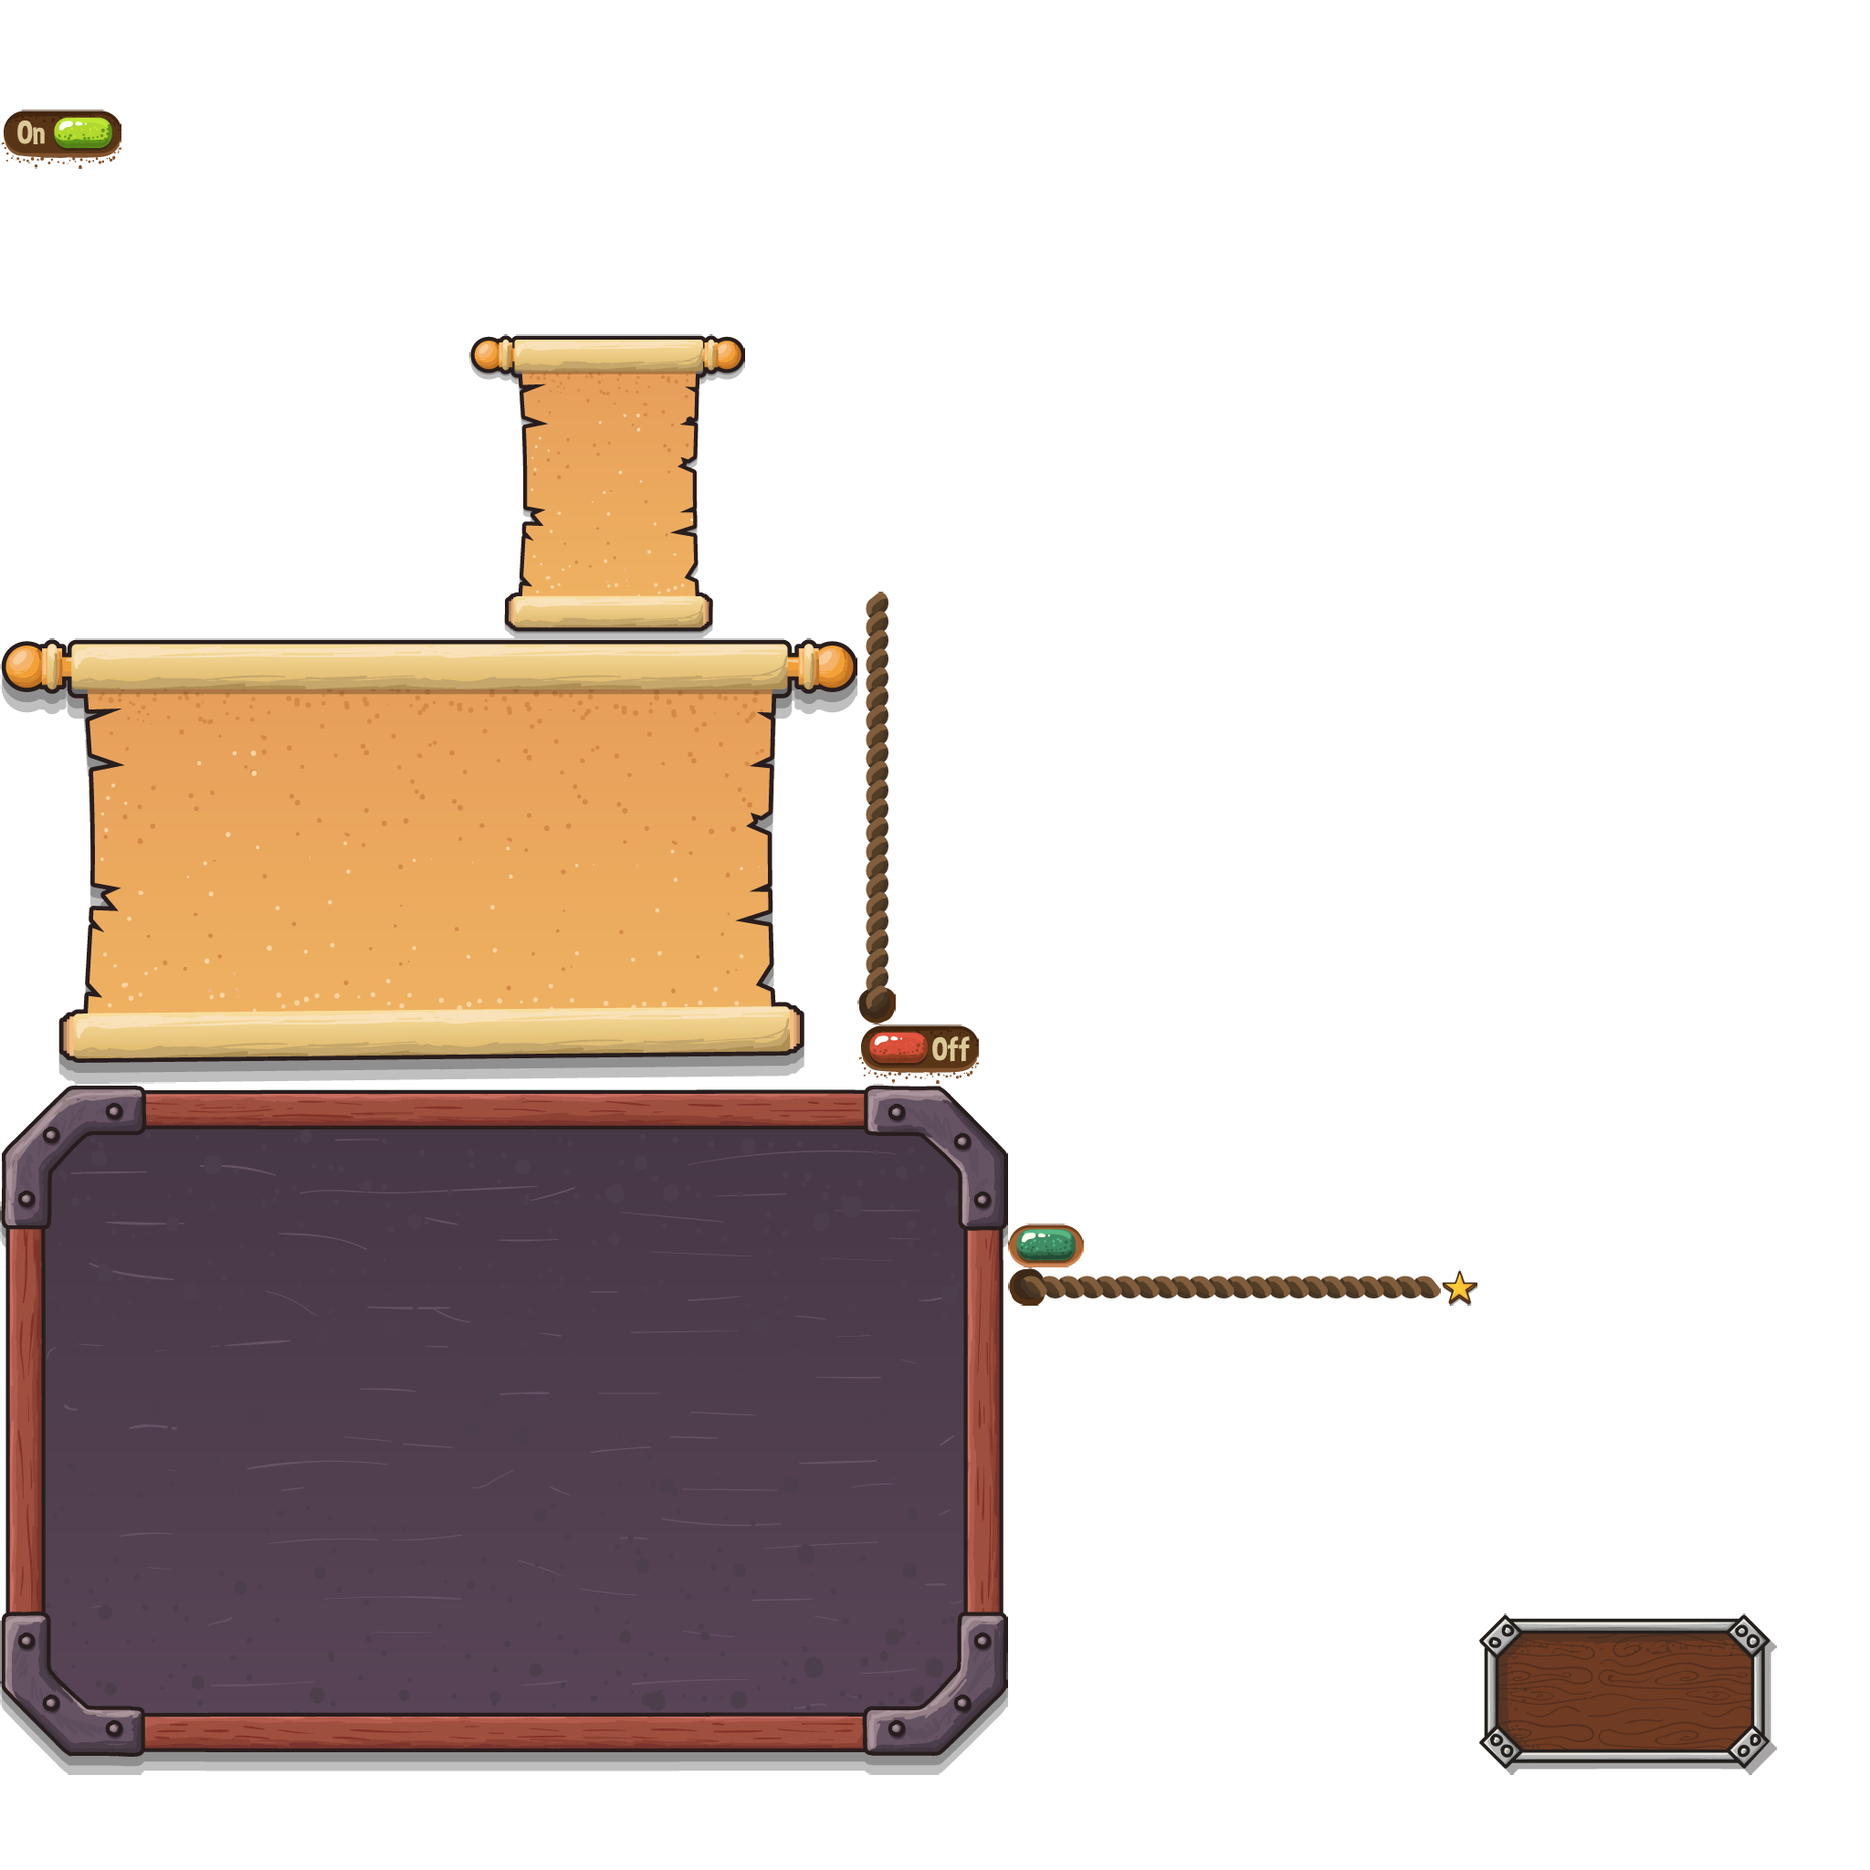
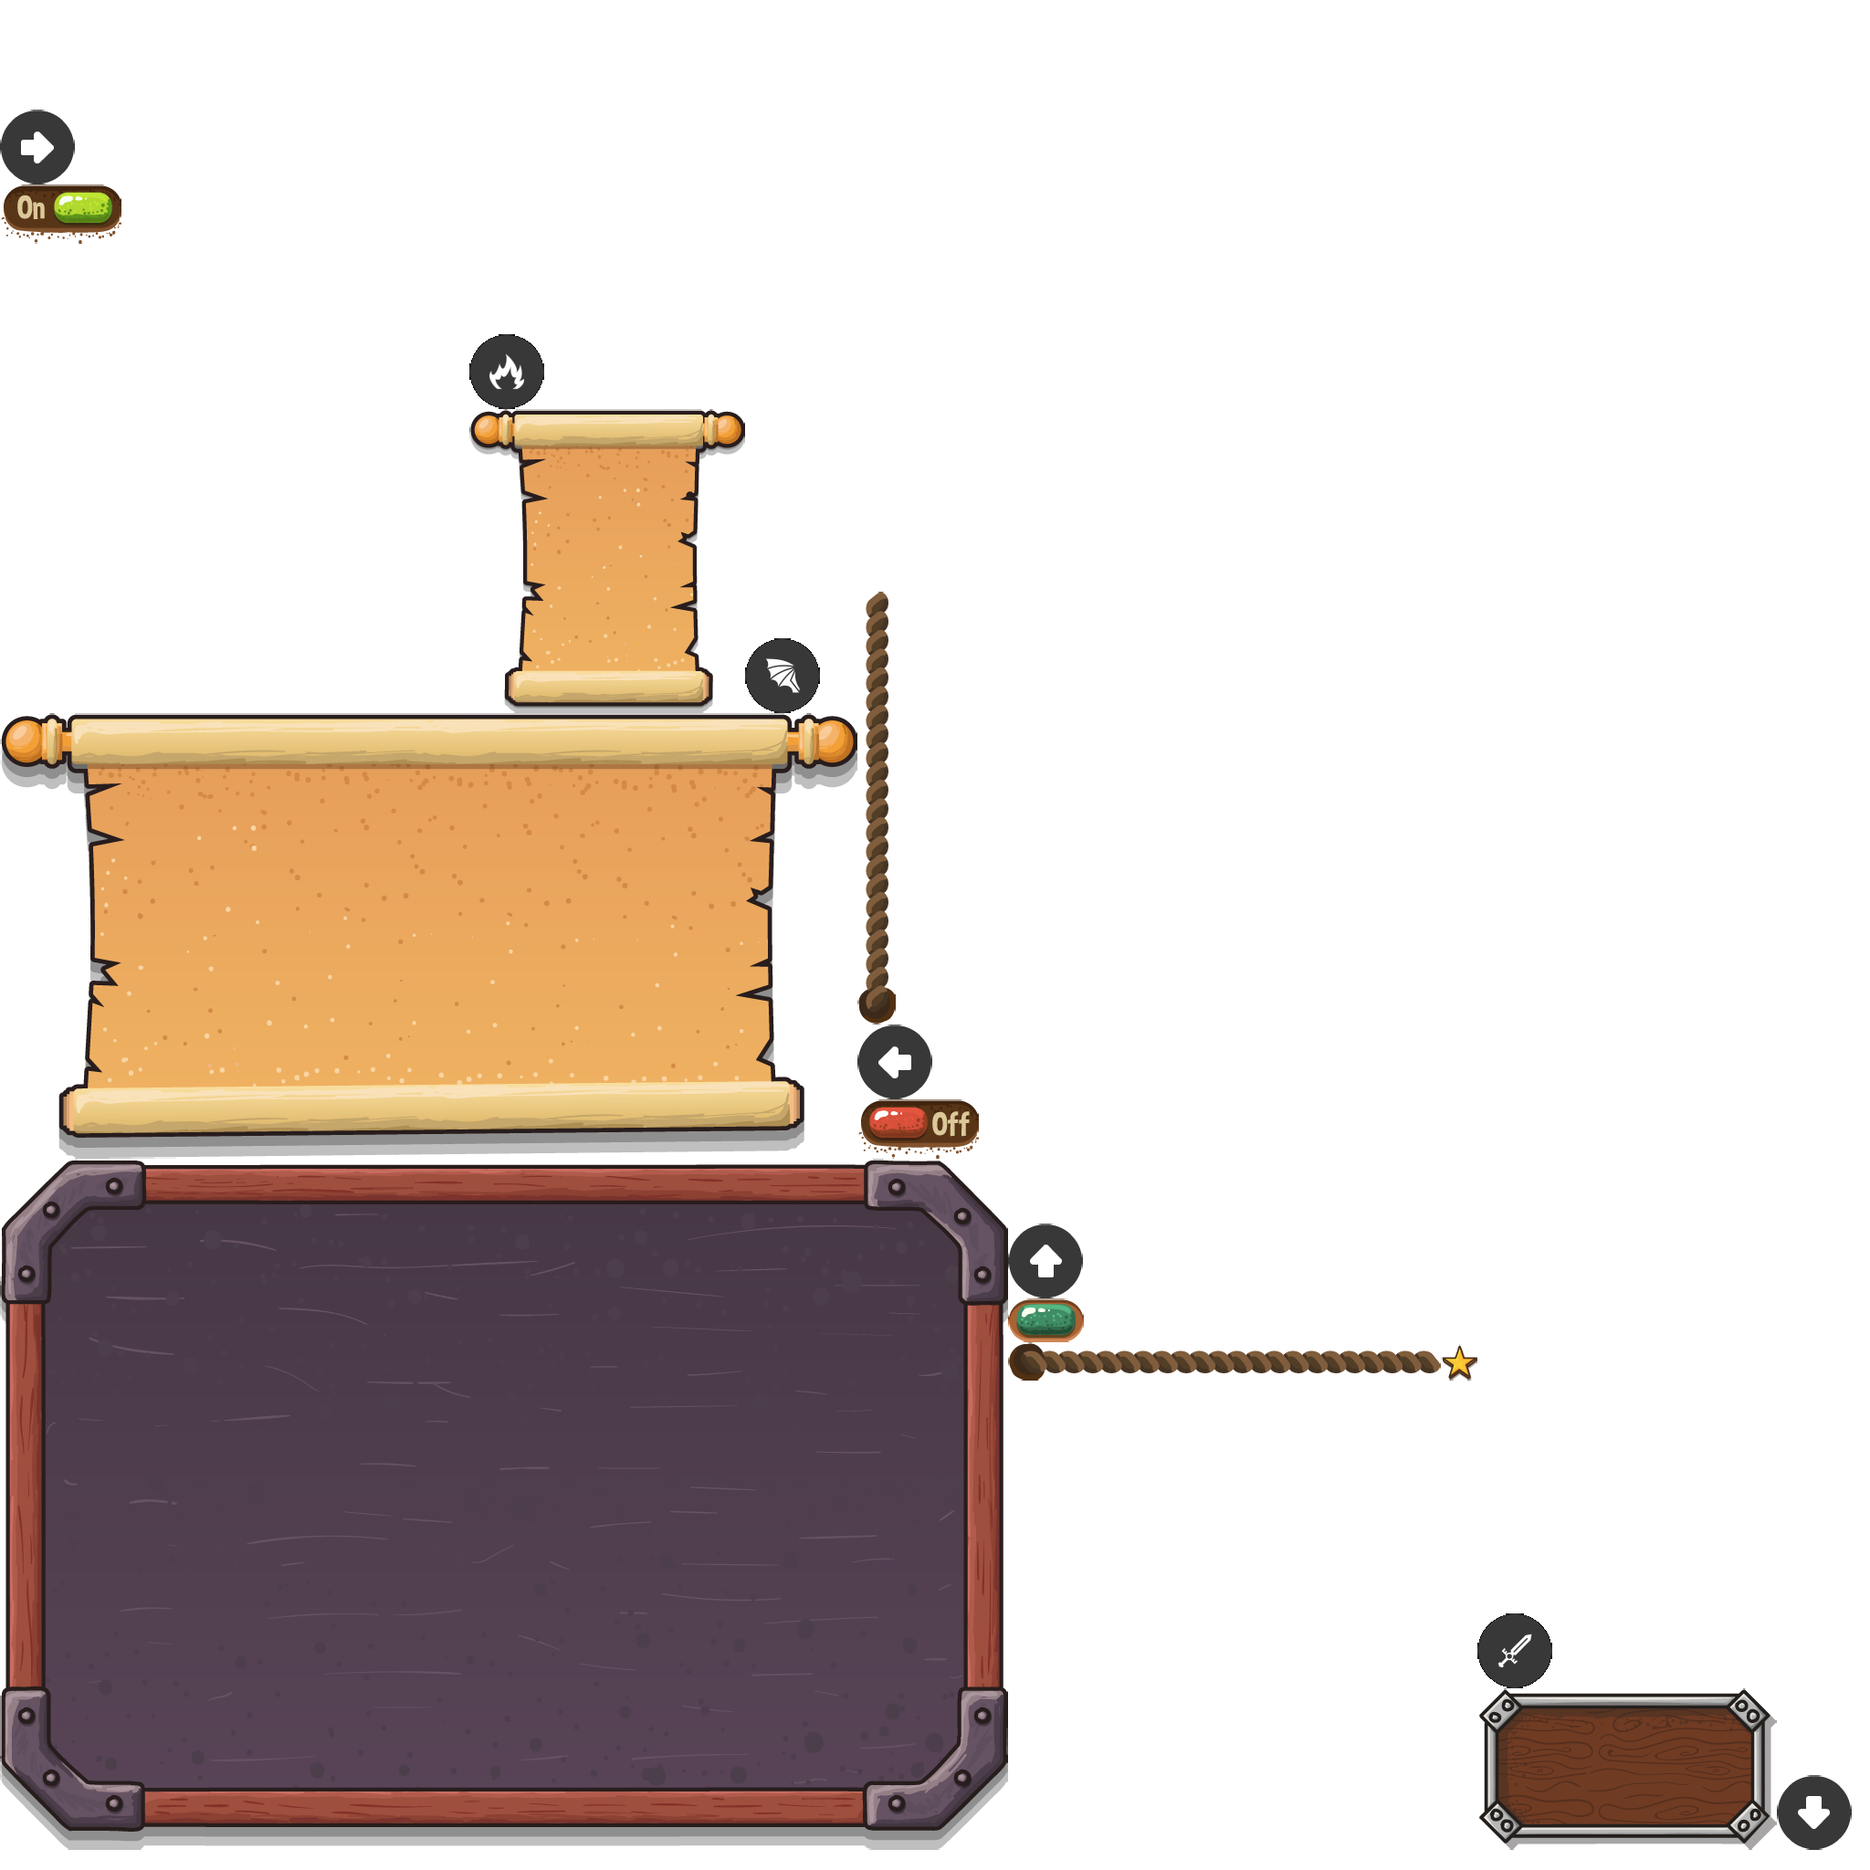
UI Skin updated with new touchbuttons

diff --git a/core/src/main/java/com/axehigh/platformer/ui/TouchControlsStage.java b/core/src/main/java/com/axehigh/platformer/ui/TouchControlsStage.java
@@ -2,12 +2,9 @@ package com.axehigh.platformer.ui;
 
 import com.axehigh.platformer.GameConstants;
 import com.axehigh.platformer.ecs.systems.PlayerInputSystem;
-import com.badlogic.gdx.scenes.scene2d.InputEvent;
-import com.badlogic.gdx.scenes.scene2d.InputListener;
 import com.badlogic.gdx.scenes.scene2d.Stage;
 import com.badlogic.gdx.scenes.scene2d.ui.Skin;
 import com.badlogic.gdx.scenes.scene2d.ui.Table;
-import com.badlogic.gdx.scenes.scene2d.ui.TextButton;
 import com.badlogic.gdx.utils.viewport.Viewport;
 
 import static com.axehigh.platformer.GameConstants.*;
@@ -17,8 +14,8 @@ import static com.axehigh.platformer.GameConstants.*;
  * All buttons drive the same {@link PlayerInputSystem} handlers used by the keyboard.
  */
 public class TouchControlsStage extends Stage {
-    private final TextButton interactButton;
-    private final TextButton dropButton;
+    private final TouchButton interactButton;
+    private final TouchButton dropButton;
 
     public TouchControlsStage(Viewport viewport, Skin skin, PlayerInputSystem inputSystem) {
         super(viewport);
@@ -30,84 +27,52 @@ public class TouchControlsStage extends Stage {
         addActor(root);
 
         Table dpad = new Table();
-        TextButton leftButton = new TextButton("<", skin);
-        TextButton rightButton = new TextButton(">", skin);
-        leftButton.addListener(new InputListener() {
-            @Override
-            public boolean touchDown(InputEvent event, float x, float y, int pointer, int button) {
-                inputSystem.setTouchLeft(true);
-                return true;
-            }
+        TouchButton leftButton = new TouchButton(skin, "flatLeft", UI_BUTTON_PRESS_SCALE, UI_BUTTON_SCALE_DURATION,
+                new TouchButton.Handler() {
+                    @Override
+                    public void onPress() {
+                        inputSystem.setTouchLeft(true);
+                    }
 
-            @Override
-            public void touchUp(InputEvent event, float x, float y, int pointer, int button) {
-                inputSystem.setTouchLeft(false);
-            }
-        });
-        rightButton.addListener(new InputListener() {
-            @Override
-            public boolean touchDown(InputEvent event, float x, float y, int pointer, int button) {
-                inputSystem.setTouchRight(true);
-                return true;
-            }
+                    @Override
+                    public void onRelease() {
+                        inputSystem.setTouchLeft(false);
+                    }
+                });
+        TouchButton rightButton = new TouchButton(skin, "flatRight", UI_BUTTON_PRESS_SCALE, UI_BUTTON_SCALE_DURATION,
+                new TouchButton.Handler() {
+                    @Override
+                    public void onPress() {
+                        inputSystem.setTouchRight(true);
+                    }
 
-            @Override
-            public void touchUp(InputEvent event, float x, float y, int pointer, int button) {
-                inputSystem.setTouchRight(false);
-            }
-        });
+                    @Override
+                    public void onRelease() {
+                        inputSystem.setTouchRight(false);
+                    }
+                });
         dpad.add(leftButton).size(UI_Button_Move_Size, UI_Button_Move_Size).padRight(UI_Button_Move_Size);
         dpad.add(rightButton).size(UI_Button_Move_Size, UI_Button_Move_Size);
 
         Table actions = new Table();
-        TextButton yButton = new TextButton("Y", skin);
-        TextButton bButton = new TextButton("B", skin);
-        TextButton aButton = new TextButton("A", skin);
-        yButton.addListener(new InputListener() {
-            @Override
-            public boolean touchDown(InputEvent event, float x, float y, int pointer, int button) {
-                inputSystem.requestTouchShoot();
-                return true;
-            }
-        });
-        bButton.addListener(new InputListener() {
-            @Override
-            public boolean touchDown(InputEvent event, float x, float y, int pointer, int button) {
-                inputSystem.requestTouchMelee();
-                return true;
-            }
-        });
-        aButton.addListener(new InputListener() {
-            @Override
-            public boolean touchDown(InputEvent event, float x, float y, int pointer, int button) {
-                inputSystem.requestTouchJump();
-                return true;
-            }
-        });
+        TouchButton yButton = new TouchButton(skin, "flatFlame", UI_BUTTON_PRESS_SCALE, UI_BUTTON_SCALE_DURATION,
+                () -> inputSystem.requestTouchShoot());
+        TouchButton bButton = new TouchButton(skin, "flatAttack", UI_BUTTON_PRESS_SCALE, UI_BUTTON_SCALE_DURATION,
+                () -> inputSystem.requestTouchMelee());
+        TouchButton aButton = new TouchButton(skin, "flatUp", UI_BUTTON_PRESS_SCALE, UI_BUTTON_SCALE_DURATION,
+                () -> inputSystem.requestTouchJump());
         actions.add(yButton).size(UI_Button_Action_Size, UI_Button_Action_Size).pad(UI_PADDING);
         actions.add(bButton).size(UI_Button_Action_Size, UI_Button_Action_Size).pad(UI_PADDING);
         actions.row();
         actions.add().size(UI_Button_Action_Size, UI_Button_Action_Size).pad(UI_PADDING);
         actions.add(aButton).size(UI_Button_Action_Size, UI_Button_Action_Size).pad(UI_PADDING);
 
-        interactButton = new TextButton("^", skin);
-        interactButton.addListener(new InputListener() {
-            @Override
-            public boolean touchDown(InputEvent event, float x, float y, int pointer, int button) {
-                inputSystem.requestTouchInteract();
-                return true;
-            }
-        });
+        interactButton = new TouchButton(skin, "flatFly", UI_BUTTON_PRESS_SCALE, UI_BUTTON_SCALE_DURATION,
+                () -> inputSystem.requestTouchInteract());
         interactButton.setVisible(false);
 
-        dropButton = new TextButton("v", skin);
-        dropButton.addListener(new InputListener() {
-            @Override
-            public boolean touchDown(InputEvent event, float x, float y, int pointer, int button) {
-                inputSystem.requestTouchDrop();
-                return true;
-            }
-        });
+        dropButton = new TouchButton(skin, "flatDown", UI_BUTTON_PRESS_SCALE, UI_BUTTON_SCALE_DURATION,
+                () -> inputSystem.requestTouchDrop());
         dropButton.setVisible(false);
 
         Table contextual = new Table();

diff --git a/core/src/main/java/com/axehigh/platformer/ecs/systems/PlayerInputSystem.java b/core/src/main/java/com/axehigh/platformer/ecs/systems/PlayerInputSystem.java
@@ -70,37 +70,51 @@ public class PlayerInputSystem extends IteratingSystem {
         this.assetManager = assetManager;
     }
 
-    /** Called by the D-pad's left button (touch down/up). */
+    /**
+     * Called by the D-pad's left button (touch down/up).
+     */
     public void setTouchLeft(boolean pressed) {
         touchLeft = pressed;
     }
 
-    /** Called by the D-pad's right button (touch down/up). */
+    /**
+     * Called by the D-pad's right button (touch down/up).
+     */
     public void setTouchRight(boolean pressed) {
         touchRight = pressed;
     }
 
-    /** Called by the A button (jump). */
+    /**
+     * Called by the A button (jump).
+     */
     public void requestTouchJump() {
         touchJumpRequested = true;
     }
 
-    /** Called by the B button (close-combat strike). */
+    /**
+     * Called by the B button (close-combat strike).
+     */
     public void requestTouchMelee() {
         touchMeleeRequested = true;
     }
 
-    /** Called by the Y button (ranged dagger shoot). */
+    /**
+     * Called by the Y button (ranged dagger shoot).
+     */
     public void requestTouchShoot() {
         touchShootRequested = true;
     }
 
-    /** Called by the contextual up-arrow button (interact with a nearby exit gate). */
+    /**
+     * Called by the contextual up-arrow button (interact with a nearby exit gate).
+     */
     public void requestTouchInteract() {
         touchInteractRequested = true;
     }
 
-    /** Called by the contextual down-arrow button (drop through a drop-through platform). */
+    /**
+     * Called by the contextual down-arrow button (drop through a drop-through platform).
+     */
     public void requestTouchDrop() {
         touchDropRequested = true;
     }
@@ -151,10 +165,7 @@ public class PlayerInputSystem extends IteratingSystem {
             movement.velocity.x = 0f;
         }
 
-        boolean jumpPressed = Gdx.input.isKeyJustPressed(SPACE)
-            || Gdx.input.isKeyJustPressed(W)
-            || Gdx.input.isKeyJustPressed(UP)
-            || touchJumpRequested;
+        boolean jumpPressed = Gdx.input.isKeyJustPressed(W) || Gdx.input.isKeyJustPressed(UP) || touchJumpRequested;
 
         if (!locked && jumpPressed && player.jumpCount < player.maxJumps) {
             if (movement.grounded) {
@@ -174,9 +185,7 @@ public class PlayerInputSystem extends IteratingSystem {
         player.meleeCooldown.update(deltaTime);
         player.dropWindow.update(deltaTime);
 
-        boolean meleePressed = Gdx.input.isKeyJustPressed(Input.Keys.J)
-            || Gdx.input.isKeyJustPressed(Input.Keys.B)
-            || touchMeleeRequested;
+        boolean meleePressed = Gdx.input.isKeyJustPressed(Input.Keys.J) || Gdx.input.isKeyJustPressed(Input.Keys.SPACE) || touchMeleeRequested;
         if (!locked && meleePressed && player.meleeCooldown.isDone()) {
             float attackDuration = findAttackDuration(entity);
             player.meleeAttack.start(attackDuration);
@@ -185,9 +194,7 @@ public class PlayerInputSystem extends IteratingSystem {
             player.meleeCooldown.start(Math.max(MELEE_COOLDOWN, attackDuration));
         }
 
-        boolean shootPressed = Gdx.input.isKeyJustPressed(Input.Keys.K)
-            || Gdx.input.isKeyJustPressed(Input.Keys.Y)
-            || touchShootRequested;
+        boolean shootPressed = Gdx.input.isKeyJustPressed(Input.Keys.K) || Gdx.input.isKeyJustPressed(Input.Keys.Y) || touchShootRequested;
         if (!locked && shootPressed && player.shootCooldown.isDone() && player.items > 0) {
             spawnBullet(transform, collision, player);
             player.items--;

diff --git a/core/src/main/java/com/axehigh/platformer/ui/TouchButton.java b/core/src/main/java/com/axehigh/platformer/ui/TouchButton.java
@@ -1,0 +1,43 @@
+package com.axehigh.platformer.ui;
+
+import com.badlogic.gdx.scenes.scene2d.InputEvent;
+import com.badlogic.gdx.scenes.scene2d.InputListener;
+import com.badlogic.gdx.scenes.scene2d.actions.Actions;
+import com.badlogic.gdx.scenes.scene2d.ui.ImageButton;
+import com.badlogic.gdx.scenes.scene2d.ui.Skin;
+
+/**
+ * {@link ImageButton} for the mobile touch overlay. Uses the "gameplay" skin style with a per-button
+ * drawable, scales down while pressed, and delegates press/release to a {@link Handler}.
+ */
+public class TouchButton extends ImageButton {
+
+    /** Callbacks for the button's press and release states. */
+    public interface Handler {
+        void onPress();
+
+        default void onRelease() {
+        }
+    }
+
+    public TouchButton(Skin skin, String drawableName, float pressedScale, float scaleDuration, Handler handler) {
+        super(new ImageButtonStyle(skin.get("gameplay", ImageButtonStyle.class)));
+        ImageButtonStyle style = getStyle();
+        style.imageUp = skin.getDrawable(drawableName);
+        style.imageDown = skin.getDrawable(drawableName);
+        addListener(new InputListener() {
+            @Override
+            public boolean touchDown(InputEvent event, float x, float y, int pointer, int button) {
+                event.getListenerActor().addAction(Actions.scaleTo(pressedScale, pressedScale, scaleDuration));
+                handler.onPress();
+                return true;
+            }
+
+            @Override
+            public void touchUp(InputEvent event, float x, float y, int pointer, int button) {
+                event.getListenerActor().addAction(Actions.scaleTo(1f, 1f, scaleDuration));
+                handler.onRelease();
+            }
+        });
+    }
+}

diff --git a/core/src/main/java/com/axehigh/platformer/map/LevelCatalog.java b/core/src/main/java/com/axehigh/platformer/map/LevelCatalog.java
@@ -12,6 +12,7 @@ public final class LevelCatalog {
 //        LEVELS.add(new LevelDefinition("demo_room_final", "Demo Room Final", "maps/demo_room_final.tmx"));
 //        LEVELS.add(new LevelDefinition("sample_room", "Sample Room", "maps/sample_room.tmx"));
         LEVELS.add(new LevelDefinition("lvl1_demo1", "Level 1 demo 1", "maps/level1/level_1_demo.tmx"));
+        LEVELS.add(new LevelDefinition("lvl1_demo1b", "Level 1 demo 1b", "maps/level1/level_1_demo_padded.tmx"));
         LEVELS.add(new LevelDefinition("lvl1_demo2", "Level 1 demo 2", "maps/level1/level_1_demo_2.tmx"));
         LEVELS.add(new LevelDefinition("lvl1_demo3", "Level 1 demo 3", "maps/level1/level_1_demo_3.tmx"));
         LEVELS.add(new LevelDefinition("lvl1_generated1", "New 1", "maps/level1/generated_room.tmx"));

diff --git a/core/src/main/java/com/axehigh/platformer/GameConstants.java b/core/src/main/java/com/axehigh/platformer/GameConstants.java
@@ -48,6 +48,8 @@ public final class GameConstants {
     public static float UI_Button_Move_Size = 165f;
     public static final float UI_PADDING = 33f;
     public static final float UI_BUTTON_ALPHA = 0.4f;
+    public static final float UI_BUTTON_PRESS_SCALE = 0.95f;
+    public static final float UI_BUTTON_SCALE_DURATION = 0.05f;
     public static float FontScale = 1f;
 
     private GameConstants() {
